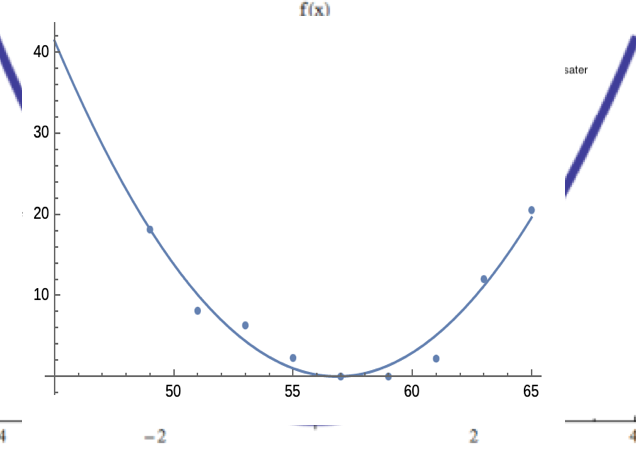
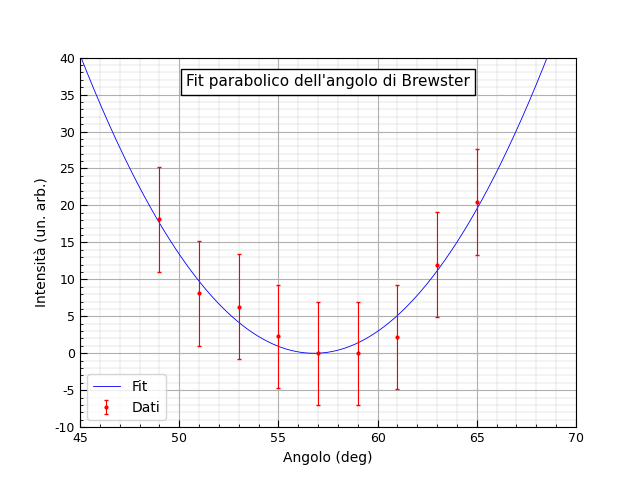
Add real graphs

diff --git a/docs/report/sections/04-risultati.tex b/docs/report/sections/04-risultati.tex
@@ -10,8 +10,7 @@
   %
   \begin{figure}[H]
     \centering
-    \caption{Dati raccolti}
-    \begin{subfigure}[t]{.4\textwidth}
+    \begin{subfigure}[t]{.42\textwidth}
       \includegraphics[width=7cm]{./graphs/raw-pi.png}
       \caption{
         \emph{
@@ -23,9 +22,9 @@
       \label{fig:raw-pi}
     \end{subfigure}
     %
-    \hspace{20mm}
+    \hspace{5mm}
     %
-    \begin{subfigure}[t]{.4\textwidth}
+    \begin{subfigure}[t]{.42\textwidth}
       \includegraphics[width=7cm]{./graphs/raw-sigma.png}
       \caption{
         \emph{
@@ -35,7 +34,8 @@
       }
       \label{fig:raw-sigma}
     \end{subfigure}
-    \label{fig:dati-raw}
+    \caption{\emph{Dati raccolti.}
+    \label{fig:dati-raw}}
   \end{figure}
   %
   \begin{table}[ht]
@@ -78,9 +78,8 @@
   %
   \begin{figure}[H]
     \centering
-    \caption{Dati normalizzati}
-    \begin{subfigure}{.4\textwidth}
-      \includegraphics[width=7cm]{./graphs/normalised-coefficients.png}
+    \begin{subfigure}[t]{.4\textwidth}
+      \includegraphics[width=7cm]{./graphs/r-pi-coefficient.png}
       \caption{
         \emph{
           Andamento del coefficiente $R_\pi$, ottenuto normalizzando i dati
@@ -88,11 +87,12 @@
           % todo
         }
       }
+      \caption{\emph{Andamento dei coefficienti $R_\pi$ e $R_\sigma$.}}
       \label{fig:normalised-coefficients}
     \end{subfigure}%
     \hspace{20mm}
-    \begin{subfigure}{.4\textwidth}
-      \includegraphics[width=7cm]{./graphs/amplitude-coefficients.png}
+    \begin{subfigure}[t]{.4\textwidth}
+      \includegraphics[width=7cm]{./graphs/r-sigma-coefficient.png}
       \caption{
         \emph{
           Andamento del coefficiente $R_\sigma$, ottenuto normalizzando i dati
@@ -117,8 +117,8 @@
   %
   \begin{figure}[h]
     \centering
-    \caption{Fit parabolico dell'angolo di brewster.}
     \includegraphics[width=7cm]{./graphs/brewsters-angle.png}
+    \caption{\emph{Fit parabolico dell'angolo di brewster.}}
     \label{fig:brewsters-angle}
   \end{figure}
   \begin{table}[ht]

diff --git a/docs/report/sections/03-apparato-e-svolgimento.tex b/docs/report/sections/03-apparato-e-svolgimento.tex
@@ -17,7 +17,6 @@
 %
   \begin{figure}[h]
     \centering
-    \caption{Apparato sperimentale e schema circuitale.}
     \begin{subfigure}{.4\textwidth}
       \includegraphics[width=7cm]{instrumental-apparatus.png}
       \caption{
@@ -42,6 +41,7 @@
       }
       \label{fig:diagramma-circuito}
     \end{subfigure}
+    \caption{\emph{Apparato sperimentale e schema circuitale.}}
   \end{figure}
 %
 \subsection{Procedura sperimentale}\label{subsec:procedura-sperimentale}
